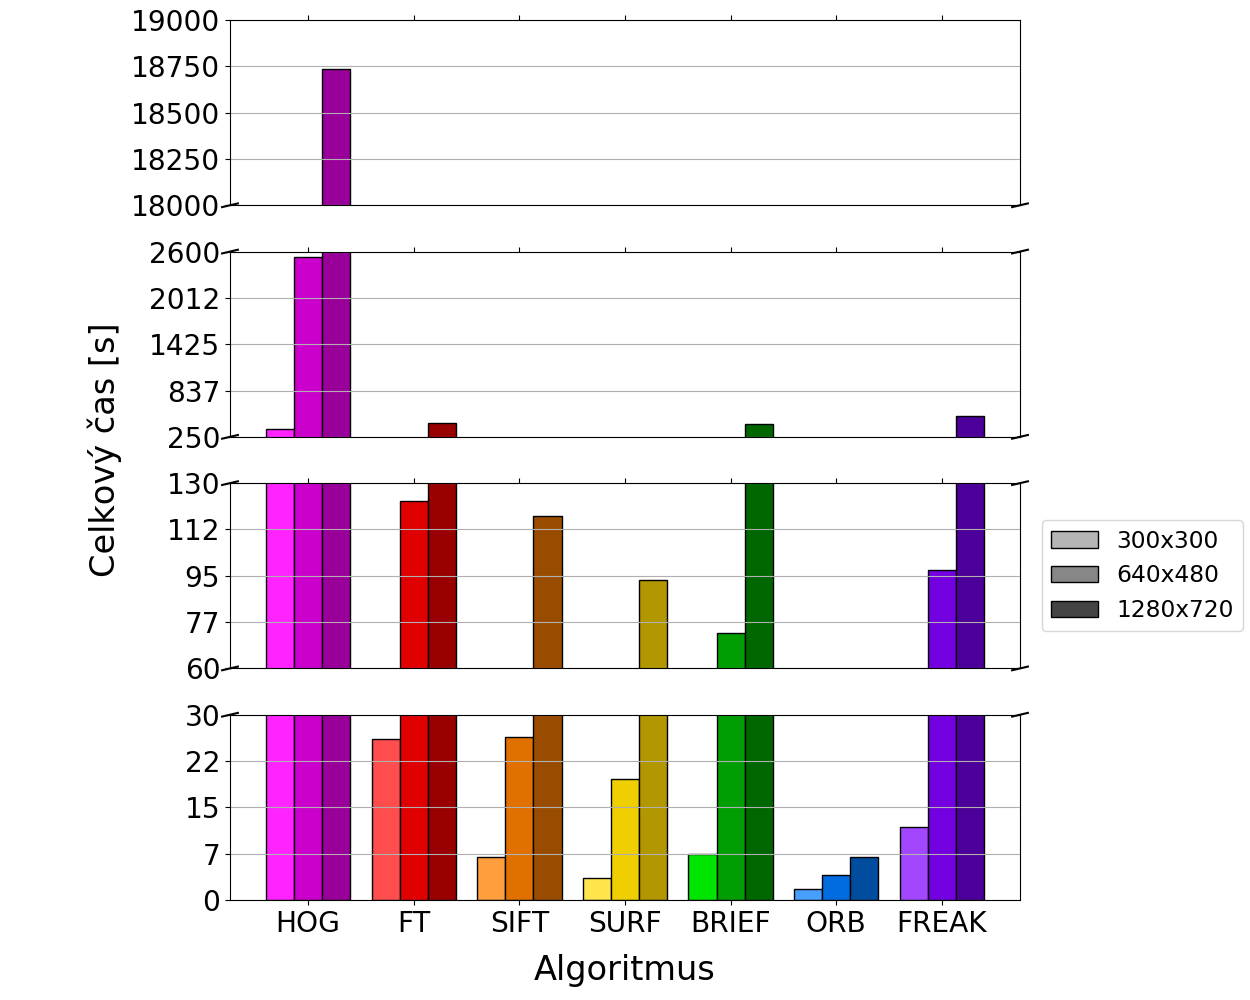
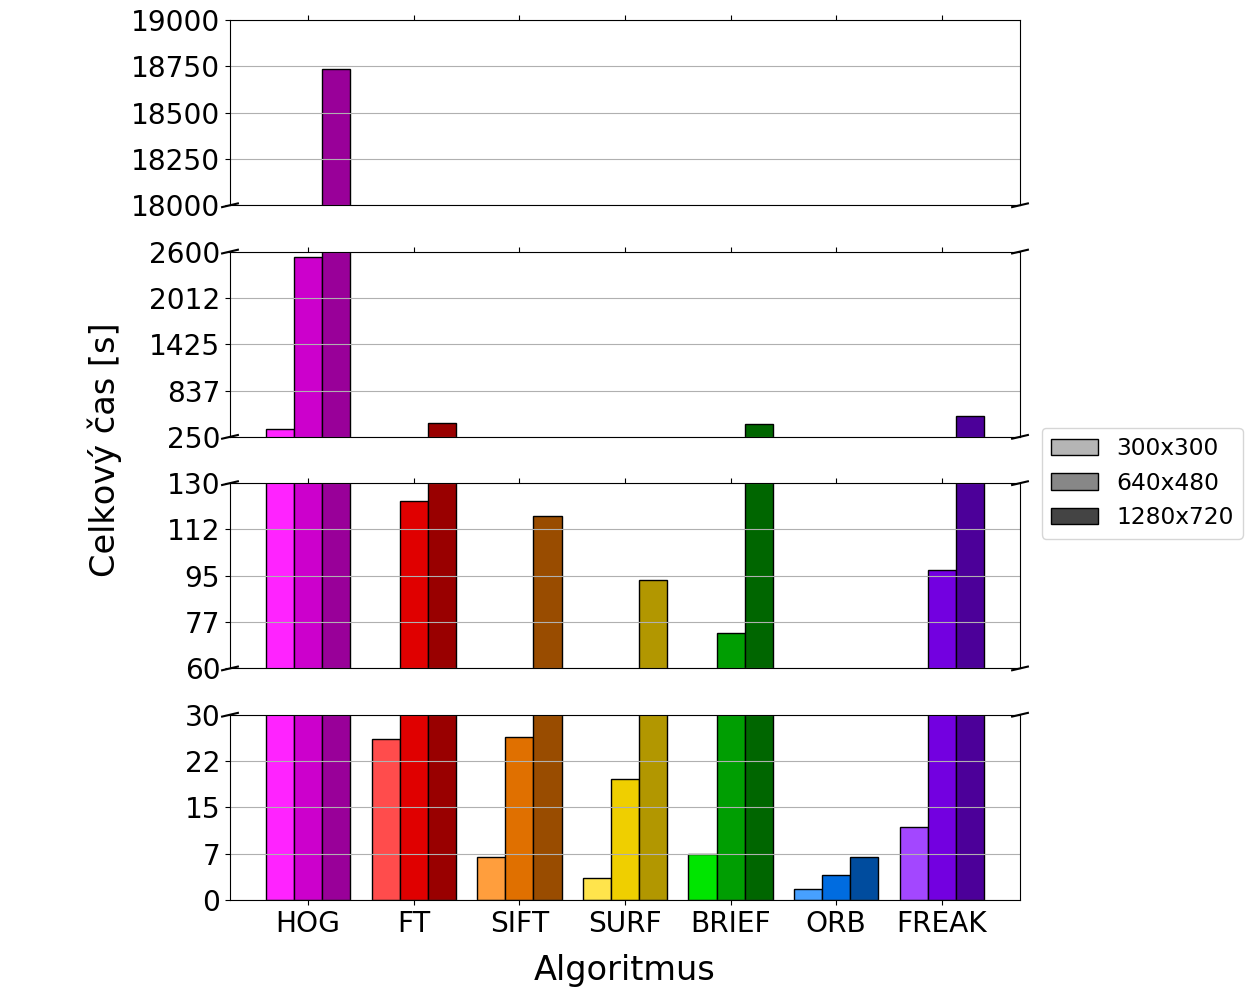
Aligned legends, regenerated charts

Changed region(s): [[0.8424, 0.434, 0.9984, 0.62]]

diff --git a/src/scripts/charts/generateCharts3.py b/src/scripts/charts/generateCharts3.py
@@ -9,7 +9,7 @@ from matplotlib.ticker import FuncFormatter
 import matplotlib.patches as patches
 import src.scripts.charts.data as data
 
-OUTPUT_DIR = "./output/allSizesNewLargerHOG/gray/subplotCount"
+OUTPUT_DIR = "./output/allSizesNewLargerHOG/gray"
 # global default font size, font sizes like xx-large are relative to this
 matplotlib.rcParams['font.size'] = 14   # default = 10
 
@@ -135,7 +135,7 @@ def accuracy(title=False, filename=None, show=False):
     axis.bar(mediumX, mediumY, barWidth, color=pickColors(COLORS_640x480, mediumX), edgecolor="black")
     axis.bar(largeX + 2 * hW, largeY, barWidth, color=pickColors(COLORS_1280x720, largeX), edgecolor="black")
 
-    plt.legend(loc="center left", bbox_to_anchor=(1, 0.5), handles=GRAY_LEGEND, fontsize='large')
+    plt.legend(loc="center left", bbox_to_anchor=(1.0125, 0.475), handles=GRAY_LEGEND, fontsize='large')
     plt.grid(True, axis="y")
 
     top = TOP_MARGIN_TITLE if title else TOP_MARGIN_NO_TITLE
@@ -172,7 +172,7 @@ def partDescriptorTime(title=False, filename=None, show=False):
     axis.bar(mediumX, mediumY, barWidth, color=pickColors(COLORS_640x480, mediumX), edgecolor="black")
     axis.bar(largeX + 2 * hW, largeY, barWidth, color=pickColors(COLORS_1280x720, largeX), edgecolor="black")
 
-    plt.legend(loc="center left", bbox_to_anchor=(1.0125, 0.5), handles=GRAY_LEGEND, fontsize='large')
+    plt.legend(loc="center left", bbox_to_anchor=(1.0125, 0.475), handles=GRAY_LEGEND, fontsize='large')
     plt.grid(True, axis="y")
 
     top = TOP_MARGIN_TITLE if title else TOP_MARGIN_NO_TITLE
@@ -215,7 +215,7 @@ def imageDescriptorTime(title=False, filename=None, show=False):
     drawAcross([bottom, upper], mediumX, mediumY, barWidth, color=pickColors(COLORS_640x480, mediumX), edgecolor="black")
     drawAcross([bottom, upper], largeX + 2 * hW, largeY, barWidth, color=pickColors(COLORS_1280x720, largeX), edgecolor="black")
 
-    upper.legend(loc="center left", bbox_to_anchor=(1.0125, -0.1), handles=GRAY_LEGEND, fontsize='large')
+    bottom.legend(loc="center left", bbox_to_anchor=(1.0125, 1.02), handles=GRAY_LEGEND, fontsize='large')
     bottom.grid(True, axis="y")
     upper.grid(True, axis="y")
 
@@ -273,7 +273,7 @@ def partDescriptorSize(title=False, filename=None, show=False):
     drawAcross([bottom, middle, upper], mediumX, mediumY, barWidth, color=pickColors(COLORS_640x480, mediumX), edgecolor="black")
     drawAcross([bottom, middle, upper, top], largeX + 2 * hW, largeY, barWidth, color=pickColors(COLORS_1280x720, largeX), edgecolor="black")
 
-    middle.legend(loc="center left", bbox_to_anchor=(1.0125, 0.5), handles=GRAY_LEGEND, fontsize='large')
+    middle.legend(loc="center left", bbox_to_anchor=(1.0125, 1), handles=GRAY_LEGEND, fontsize='large')
     bottom.grid(True, axis="y")
     middle.grid(True, axis="y")
     upper.grid(True, axis="y")
@@ -331,7 +331,7 @@ def imageDescriptorSize(title=False, filename=None, show=False):
     drawAcross([bottom, middle, upper], mediumX, mediumY, barWidth, color=pickColors(COLORS_640x480, mediumX), edgecolor="black")
     drawAcross([bottom, middle, upper, top], largeX + 2 * hW, largeY, barWidth, color=pickColors(COLORS_1280x720, largeX), edgecolor="black")
 
-    middle.legend(loc="center left", bbox_to_anchor=(1.0125, -0.1), handles=GRAY_LEGEND, fontsize='large')
+    middle.legend(loc="center left", bbox_to_anchor=(1.0125, 1), handles=GRAY_LEGEND, fontsize='large')
     bottom.grid(True, axis="y")
     middle.grid(True, axis="y")
     upper.grid(True, axis="y")
@@ -385,7 +385,7 @@ def matching(title=False, filename=None, show=False):
     drawAcross([bottom, middle, upper], mediumX, mediumY, barWidth, color=pickColors(COLORS_640x480, mediumX), edgecolor="black")
     drawAcross([bottom, middle, upper, top], largeX + 2 * hW, largeY, barWidth, color=pickColors(COLORS_1280x720, largeX), edgecolor="black")
 
-    middle.legend(loc="center left", bbox_to_anchor=(1.0125, 0.5), handles=GRAY_LEGEND, fontsize='large')
+    middle.legend(loc="center left", bbox_to_anchor=(1.0125, 1), handles=GRAY_LEGEND, fontsize='large')
     bottom.grid(True, axis="y")
     middle.grid(True, axis="y")
     upper.grid(True, axis="y")
@@ -444,7 +444,7 @@ def partProcess(title=False, filename=None, show=False):
     drawAcross([bottom, middle, upper], mediumX, mediumY, barWidth, color=pickColors(COLORS_640x480, mediumX), edgecolor="black")
     drawAcross([bottom, middle, upper, top], largeX + 2 * hW, largeY, barWidth, color=pickColors(COLORS_1280x720, largeX), edgecolor="black")
 
-    middle.legend(loc="center left", bbox_to_anchor=(1.0125, 0.5), handles=GRAY_LEGEND, fontsize='large')
+    middle.legend(loc="center left", bbox_to_anchor=(1.0125, 1), handles=GRAY_LEGEND, fontsize='large')
     bottom.grid(True, axis="y")
     middle.grid(True, axis="y")
     upper.grid(True, axis="y")
@@ -503,7 +503,7 @@ def totalTime(title=False, filename=None, show=False):
     drawAcross([bottom, middle, upper], mediumX, mediumY, barWidth, color=pickColors(COLORS_640x480, mediumX), edgecolor="black")
     drawAcross([bottom, middle, upper, top], largeX + 2 * hW, largeY, barWidth, color=pickColors(COLORS_1280x720, largeX), edgecolor="black")
 
-    middle.legend(loc="center left", bbox_to_anchor=(1.0125, 0.5), handles=GRAY_LEGEND, fontsize='large')
+    middle.legend(loc="center left", bbox_to_anchor=(1.0125, 1), handles=GRAY_LEGEND, fontsize='large')
     bottom.grid(True, axis="y")
     middle.grid(True, axis="y")
     upper.grid(True, axis="y")
@@ -638,13 +638,13 @@ def lightingContour(data, colormap="viridis", interpolated=False, showOriginal=F
     if show:
         plt.show()
 
-accuracy(filename="1_accuracy.png")
-# partDescriptorTime(filename="partDescriptorTime.png")
-imageDescriptorTime(filename="2_imageDescriptorTime.png")
-# partDescriptorSize(filename="partDescriptorSize.png")
-imageDescriptorSize(filename="4_imageDescriptorSize.png")
-# matching(filename="matching.png")
-# partProcess(filename="partProcess.png")
-# totalTime(filename="totalTime.png")
-# # lighting(data=data.DATA_LIGHTING_FT, show=True)
-# lightingContour(data=data.DATA_LIGHTING_FT, colormap="plasma", filename="ftLighting_plasma.png")
+accuracy(filename="accuracy.png")
+partDescriptorTime(filename="partDescriptorTime.png")
+imageDescriptorTime(filename="imageDescriptorTime.png")
+partDescriptorSize(filename="partDescriptorSize.png")
+imageDescriptorSize(filename="imageDescriptorSize.png")
+matching(filename="matching.png")
+partProcess(filename="partProcess.png")
+totalTime(filename="totalTime.png")
+# lighting(data=data.DATA_LIGHTING_FT, show=True)
+lightingContour(data=data.DATA_LIGHTING_FT, colormap="plasma", filename="ftLighting_plasma.png")
